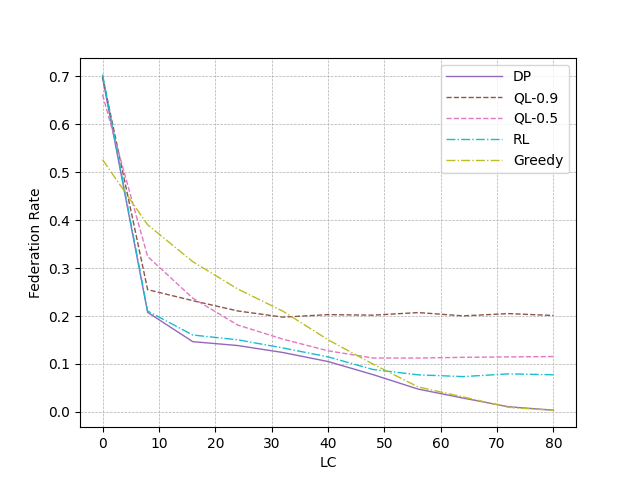
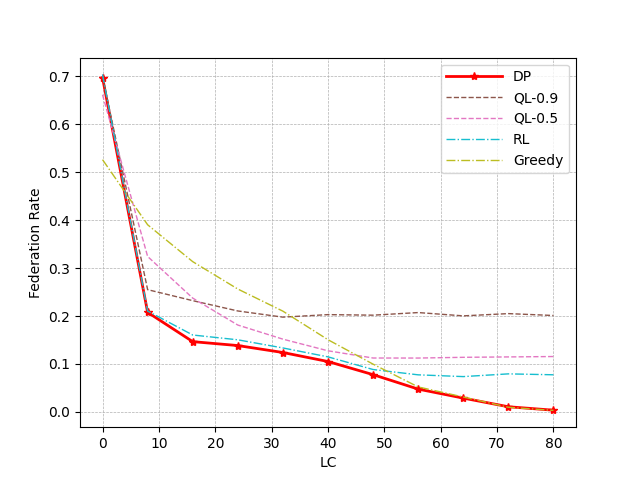
new plots

diff --git a/Single-Provider-Federation/quota-rejection/simulations/res_plotter_gr_dp_2ql_rl.py b/Single-Provider-Federation/quota-rejection/simulations/res_plotter_gr_dp_2ql_rl.py
@@ -52,7 +52,7 @@ plt.ylabel(y_label)
 #plt.plot(x, DP_05, label='DP-0.05', color='C1', linestyle='solid', linewidth=1)
 #plt.plot(x, DP_30, label='DP-0.30', color='C2', linestyle='solid', linewidth=1)
 #plt.plot(x, DP_60, label='DP-0.60', color='C3', linestyle='solid', linewidth=1)
-plt.plot(x, DP_95, label='DP', color='C4', linestyle='solid', linewidth=1)
+plt.plot(x, DP_95, label='DP', color='r', linestyle='solid', linewidth=2, marker = '*')
 
 plt.plot(x, QL_09, label='QL-0.9', color='C5', linestyle='dashed', linewidth=1)
 plt.plot(x, QL_05, label='QL-0.5', color='C6', linestyle='dashed', linewidth=1)
